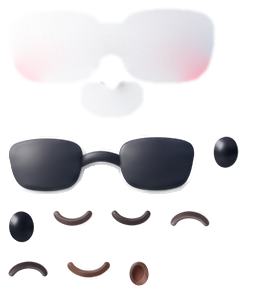
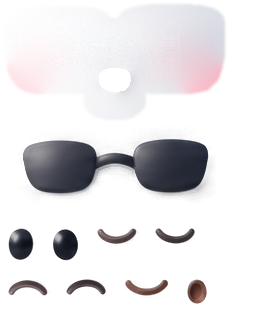
Fix Mongsil eye-side mark, expression swaps, and arm smearing
- Face atlas: erase the sunglasses' cast shadow too (12px, nose kept) and
  bake that shadow into the glasses sprite, so no outline is left when the
  glasses are raised. Sunny atlas relaid out; faceData.ts sunny coords updated.
- Expressions: eyes are no longer cross-faded. A kind change closes the old
  eye, swaps, then opens the new one over 0.24s; the engine draws one eye
  kind at full opacity (no grey half-transparent or overlapping eyes).
- Skinning: per-vertex weights baked at load from a strap/bag color mask
  (arms ~0 on strap/bag, bag moves only strap/bag, weights sum <= 1).
  Arm swing capped around 0.3rad. Umbrella path unchanged.
- Docs: DESIGN.md and ARCHITECTURE.md updated for the above.

diff --git a/src/components/ui/mongsil/motion.ts b/src/components/ui/mongsil/motion.ts
@@ -5,7 +5,8 @@
 //  - "calm"   : 원본 표정 그대로, 제자리에서 ±7° 안팎으로만 움직임(작은 움직임).
 //  - "lively" : 몸을 크게 쓰고(고개 갸웃·통통·팔 흔들기·뒤뚱뒤뚱 걷기) 표정이 계속 바뀐다.
 //               13초쯤 걸리는 한 바퀴를 "장면(beat)" 여러 개로 짠다. 장면마다 표정과 자세 목표가 있고,
-//               장면이 바뀔 때 표정은 fade초 동안 섞이고 자세는 move초 동안 부드럽게 넘어간다.
+//               장면이 바뀔 때 표정은 fade초 동안 섞이고(눈은 섞지 않고 0.24초 동안 감았다 뜨며 바뀐다)
+//               자세는 move초 동안 부드럽게 넘어간다.
 //               한 바퀴가 끝날 때마다 걷는 방향이 좌우로 번갈아 바뀐다.
 import type { MongsilWeather } from "./layout";
 import { REST_FACE, type EyeMix, type Face, type Pose } from "./engine";
@@ -39,11 +40,30 @@ const OPEN = E(1, 0, 0);
 const HAPPY = E(0, 0, 1);
 const face = (w: MongsilWeather, o: Partial<Face>): Face => ({ ...REST_FACE[w], ...o });
 
+const NO_EYE = E(0, 0, 0);
 const lerpEye = (a: EyeMix, b: EyeMix, k: number): EyeMix => ({ open: lerp(a.open, b.open, k), calm: lerp(a.calm, b.calm, k), happy: lerp(a.happy, b.happy, k) });
-function lerpFace(a: Face, b: Face, k: number): Face {
+type EyeKind = keyof EyeMix;
+function eyeKind(m: EyeMix): EyeKind | null {
+  const v = Math.max(m.open, m.calm, m.happy);
+  if (v < 0.01) return null;
+  return m.open === v ? "open" : m.calm === v ? "calm" : "happy";
+}
+// 눈 종류가 바뀌면 섞지 않는다: 앞 절반에 이전 눈이 감기고(작아지고), 가운데에서 바꾸고, 뒤 절반에 새 눈이 뜬다(자란다).
+// 반투명 눈·겹친 눈·오래 남는 검은 줄이 생기지 않는다. 같은 종류끼리는 그냥 섞는다.
+function eyeSwap(a: EyeMix, b: EyeMix, k: number): EyeMix {
+  const ka = eyeKind(a);
+  const kb = eyeKind(b);
+  if (ka === kb) return lerpEye(a, b, k);
+  if (k < 0.5) return ka ? { ...NO_EYE, [ka]: a[ka] * (1 - easeInOut(k / 0.5)) } : NO_EYE;
+  return kb ? { ...NO_EYE, [kb]: b[kb] * easeInOut((k - 0.5) / 0.5) } : NO_EYE;
+}
+const EYE_SWAP = 0.24; // 눈 바꾸는 시간(초): 감김 0.12 + 뜸 0.12 (깜빡임 한 번 길이)
+
+// 표정 섞기: 입·눈썹·선글라스·시선은 k로 부드럽게, 눈은 ek(0~1)에 맞춰 감았다 뜨며 바꾼다.
+function lerpFace(a: Face, b: Face, k: number, ek: number = k): Face {
   return {
-    eyeL: lerpEye(a.eyeL, b.eyeL, k),
-    eyeR: lerpEye(a.eyeR, b.eyeR, k),
+    eyeL: eyeSwap(a.eyeL, b.eyeL, ek),
+    eyeR: eyeSwap(a.eyeR, b.eyeR, ek),
     blinkL: lerp(a.blinkL, b.blinkL, k),
     blinkR: lerp(a.blinkR, b.blinkR, k),
     lookX: lerp(a.lookX, b.lookX, k),
@@ -106,6 +126,9 @@ function walk(arm = 0.3, sway = 1): (t: number) => Body {
     };
   };
 }
+// 팔 흔들기: 팔·끈·가방이 한 장 그림이라 크게 돌리면 끈이 꺾이고 손이 납작해진다. 올림 + 흔들림 최대 약 0.3rad.
+const ARM_UP = 0.22;
+const ARM_WAVE = 0.08;
 const TRAVEL = 68; // 걸어서 움직이는 거리(몸 그림 px). 캔버스 여백(가로 28%) 안에 들어온다.
 const FACE_YAW = 0.2; // 걷는 방향을 보는 각도
 
@@ -135,7 +158,7 @@ function sunnyScript(dir: number): Beat[] {
     { d: 1.8, face: grin, base: { headTilt: 0.2, yaw: -0.12 * dir, roll: 0.03, armL: 0.3 }, hops: [0.5] },
     { d: 0.45, face: lift, fade: 0.35, base: { headTilt: -0.05, pitch: -0.05 }, move: 0.45 },
     { d: 1.8, face: up, fade: 0.3, base: { headTilt: -0.1, yaw: 0.08 * dir, pitch: 0.02 }, gaze: sweep(1.8, 3.5, 1) },
-    { d: 1.6, face: wink, fade: 0.25, base: { headTilt: 0.22, yaw: -0.1 * dir, armL: 0.55 }, hops: [0.35], osc: (t) => ({ armL: 0.22 * Math.sin(TAU * 2.2 * t) }) },
+    { d: 1.6, face: wink, fade: 0.25, base: { headTilt: 0.22, yaw: -0.1 * dir, armL: ARM_UP }, hops: [0.35], osc: (t) => ({ armL: ARM_WAVE * Math.sin(TAU * 2.2 * t) }) },
     { d: 0.9, face: down, fade: 0.4, base: {}, move: 0.5 },
     ...walkBeats(stroll, dir, 0.3, 1),
     { d: 0.7, face: face(w, { smile: 1 }), fade: 0.5, base: {}, move: 0.6 },
@@ -154,7 +177,7 @@ function cloudyScript(dir: number): Beat[] {
   return [
     { d: 2.0, face: doze, fade: 0.5, base: { headTilt: -0.14, roll: -0.02, pitch: 0.04 }, move: 0.8, osc: (t) => ({ pitch: 0.015 * Math.sin((TAU * t) / 2.0) }) },
     { d: 2.0, face: open, fade: 0.45, base: { headTilt: 0.2, yaw: 0.1 * dir }, move: 0.7, gaze: sweep(2.0, 3.5, 0.8) },
-    { d: 1.9, face: joy, fade: 0.3, base: { headTilt: -0.18, roll: 0.03, armL: 0.5, armR: -0.5 }, hops: [0.5], osc: (t) => ({ armL: 0.2 * Math.sin(TAU * 2 * t), armR: -0.2 * Math.sin(TAU * 2 * t + 0.6) }) },
+    { d: 1.9, face: joy, fade: 0.3, base: { headTilt: -0.18, roll: 0.03, armL: ARM_UP, armR: -ARM_UP }, hops: [0.5], osc: (t) => ({ armL: ARM_WAVE * Math.sin(TAU * 2 * t), armR: -ARM_WAVE * Math.sin(TAU * 2 * t + 0.6) }) },
     { d: 1.5, face: wink, fade: 0.25, base: { headTilt: 0.22, yaw: -0.08 * dir }, hops: [0.4] },
     { d: 0.9, face: calm, fade: 0.4, base: {}, move: 0.5 },
     ...walkBeats(stroll, dir, 0.3, 1),
@@ -246,7 +269,7 @@ function lively(weather: MongsilWeather, t: number, tapAge: number | null): Pose
 
   // 표정
   const fk = easeInOut(clamp(tau / (beat.fade ?? 0.3), 0, 1));
-  let f = lerpFace(prev.face, beat.face, fk);
+  let f = lerpFace(prev.face, beat.face, fk, clamp(tau / EYE_SWAP, 0, 1));
   const gz = beat.gaze ? beat.gaze(tau) : [0, 0];
   const blink = blinkAt(t, 3.3, BLINK_PHASE[weather]);
   f = { ...f, lookX: f.lookX + gz[0] * env, lookY: f.lookY + gz[1] * env, blinkL: Math.max(f.blinkL, blink), blinkR: Math.max(f.blinkR, blink) };

diff --git a/src/components/ui/mongsil/faceData.ts b/src/components/ui/mongsil/faceData.ts
@@ -8,30 +8,30 @@ export const FACE: Record<"sunny" | "cloudy" | "rain", FaceData> = {
  "sunny": {
   "atlas": {
    "w": 256,
-   "h": 294
+   "h": 312
   },
   "patch": {
    "ax": 0,
    "ay": 0,
-   "x": 101,
-   "y": 106,
-   "w": 223,
-   "h": 126
+   "x": 98,
+   "y": 103,
+   "w": 229,
+   "h": 124
   },
   "sprites": {
    "glasses": {
     "ax": 0,
-    "ay": 128,
-    "w": 203,
-    "h": 72,
+    "ay": 126,
+    "w": 231,
+    "h": 92,
     "cx": 215.41,
     "cy": 151.33,
-    "ox": 104.41,
-    "oy": 35.33
+    "ox": 118.41,
+    "oy": 39.33
    },
    "eyeL": {
-    "ax": 205,
-    "ay": 128,
+    "ax": 0,
+    "ay": 220,
     "w": 42,
     "h": 49,
     "cx": 158.02,
@@ -40,8 +40,8 @@ export const FACE: Record<"sunny" | "cloudy" | "rain", FaceData> = {
     "oy": 24.08
    },
    "eyeR": {
-    "ax": 0,
-    "ay": 202,
+    "ax": 44,
+    "ay": 220,
     "w": 43,
     "h": 49,
     "cx": 266.62,
@@ -50,8 +50,8 @@ export const FACE: Record<"sunny" | "cloudy" | "rain", FaceData> = {
     "oy": 24.59
    },
    "arcL": {
-    "ax": 45,
-    "ay": 202,
+    "ax": 89,
+    "ay": 220,
     "w": 56,
     "h": 33,
     "cx": 158.22,
@@ -60,8 +60,8 @@ export const FACE: Record<"sunny" | "cloudy" | "rain", FaceData> = {
     "oy": 16.69
    },
    "arcR": {
-    "ax": 103,
-    "ay": 202,
+    "ax": 147,
+    "ay": 220,
     "w": 57,
     "h": 32,
     "cx": 265.62,
@@ -70,8 +70,8 @@ export const FACE: Record<"sunny" | "cloudy" | "rain", FaceData> = {
     "oy": 16.3
    },
    "arcUpL": {
-    "ax": 162,
-    "ay": 202,
+    "ax": 0,
+    "ay": 271,
     "w": 56,
     "h": 33,
     "cx": 158.22,
@@ -80,8 +80,8 @@ export const FACE: Record<"sunny" | "cloudy" | "rain", FaceData> = {
     "oy": 16.31
    },
    "arcUpR": {
-    "ax": 0,
-    "ay": 253,
+    "ax": 58,
+    "ay": 271,
     "w": 57,
     "h": 32,
     "cx": 265.62,
@@ -90,8 +90,8 @@ export const FACE: Record<"sunny" | "cloudy" | "rain", FaceData> = {
     "oy": 15.7
    },
    "smile": {
-    "ax": 59,
-    "ay": 253,
+    "ax": 117,
+    "ay": 271,
     "w": 60,
     "h": 33,
     "cx": 212.32,
@@ -100,8 +100,8 @@ export const FACE: Record<"sunny" | "cloudy" | "rain", FaceData> = {
     "oy": 17.12
    },
    "mouthO": {
-    "ax": 121,
-    "ay": 253,
+    "ax": 179,
+    "ay": 271,
     "w": 36,
     "h": 41,
     "cx": 211.82,

diff --git a/docs/DESIGN.md b/docs/DESIGN.md
@@ -78,19 +78,19 @@
     - `mongsil-sunny|cloudy|rain.png`: 전신(소나기는 우산 포함). 세 모습이 590×672 공통 캔버스에서 몸 위치·크기가 같아 날씨가 바뀌어도 몸이 흔들리지 않는다.
     - `prop-sun.png`, `prop-cloud.png`, `prop-drop.png`: 따로 움직이는 소품(해·구름·빗방울).
     - `mongsil-sunny|cloudy|rain-depth.png`: 2.5D 움직임용 깊이맵(8비트 흑백, 절반 해상도, 값 = 높이(px)×2). 실루엣 거리로 둥글게 부풀리고 얼굴·팔·가방·발을 볼록하게 더했다. 경계 밖으로도 값을 늘려 둬서 가장자리가 찢어지지 않는다. 소나기는 우산을 뺀 몸의 깊이다.
-    - `mongsil-sunny|cloudy|rain-parts.png`: 얼굴 부품 아틀라스. 눈·입·눈썹·선글라스를 떼어 낸 빈 얼굴(patch, 가장자리가 부드럽게 사라짐)과 부품(뜬 눈, 감은 눈 ‿, 웃는 눈 ⌒, 굽힐 수 있는 입, 놀란 입 O, 눈썹, 선글라스)이 들어 있고, 기본 표정으로 합치면 원본 렌더와 같다. 좌표는 `mongsil/faceData.ts`(에셋 스크립트가 만든 파일)에 있다.
+    - `mongsil-sunny|cloudy|rain-parts.png`: 얼굴 부품 아틀라스. 빈 얼굴(patch)과 부품(뜬 눈, 감은 눈 ‿, 웃는 눈 ⌒, 굽힐 수 있는 입, 놀란 입 O, 눈썹, 선글라스)이 들어 있고, 기본 표정으로 합치면 원본 렌더와 같다. 빈 얼굴은 원본 픽셀 그대로에서 원래 그려진 부품 자리(4px 넓힘, 선글라스는 얼굴에 드리운 그림자까지 12px, 코는 제외)만 주변 피부로 채우고 그 자리만 알파로 남긴 조각이라 볼터치가 잘리지 않는다. 부품 가장자리는 피부색과 분리해서 알파로 바꿔 흰·분홍 테두리가 없고, 선글라스에는 원본 그림자가 반투명 층으로 들어 있어 이마로 올리면 그림자도 함께 올라간다. 좌표는 `mongsil/faceData.ts`(에셋 스크립트가 만든 파일)에 있다.
     - `mongsil-rain-body.png`, `mongsil-rain-umbrella.png`: 소나기만. 우산을 몸에서 오려 낸 것이다. body = 우산을 지우고 가려졌던 곳(머리 오른쪽·귀·막대 자리)을 채운 몸, umbrella = 한 시트에 위(뒤 우산 = 윗면·안쪽)와 아래(앞 막대 = 손잡이·막대)를 담았다. 뒤 우산 → 몸 → 앞 막대 순으로 합치면 원본 렌더와 같아서(픽셀 오차 평균 0.01) 정지 그림 `mongsil-rain.png`(우산 포함)은 그대로 대체 화면으로 쓴다. 우산이 몸과 따로 움직이려면 이 분리가 필요하다(한 장이면 고개를 갸웃할 때 우산이 찢어진다).
     - `face-sunny|cloudy|rain.png`: 원형 아바타용 얼굴 크롭(256×256). 기본은 흐림(차분한 미소).
   - 전신은 `components/ui/Mongsil.tsx`(홈 히어로·아바타 꾸미기 미리보기·온보딩. 몸통은 `MongsilBody.tsx`), 원형은 `components/ui/Avatar.tsx`(헤더·코치 카드·빈 상태·기록·마이페이지)가 쓴다. 원형 아바타의 크기와 배지 좌표는 UI-SPEC.md 그대로이고, 얼굴 뒤 바탕만 하늘색 그라데이션(#D7E6FA→#EDF3FD)이다(빈 자리였을 때의 #F0EFED는 이미지 로딩 전 바탕으로만 남는다).
-  - 모션 — 몽실이 자체(2.5D): 렌더 한 장을 격자 메시로 깔고 깊이맵으로 볼록하게 만든 뒤 움직인다. 전체(요·피치·롤·젤리 기울기·발 기준 스쿼시&스트레치·뜀·좌우 이동) + 부위별(머리 갸웃, 양팔, 가방, 두 발 들기, 소나기는 우산이 손을 중심으로 회전)이고, 얼굴은 부품을 갈아 끼운다(눈 뜸/감음/웃는 눈, 입 굽힘·O, 눈썹, 선글라스 올리기). 원근 없는 정사영이라 기본 자세는 원본 이미지와 똑같다. 진짜 3D 모델이 아니라 그림에 입체감을 입힌 것이라 몸통 돌림은 ±12° 안쪽으로만 쓴다. 코드는 `components/ui/mongsil/`(`layout.ts` 좌표, `motion.ts` 날씨별 안무, `engine.ts` WebGL, `faceData.ts` 부품 좌표)와 `MongsilBody.tsx`(React 연결).
+  - 모션 — 몽실이 자체(2.5D): 렌더 한 장을 격자 메시로 깔고 깊이맵으로 볼록하게 만든 뒤 움직인다. 전체(요·피치·롤·젤리 기울기·발 기준 스쿼시&스트레치·뜀·좌우 이동) + 부위별(머리 갸웃, 양팔, 가방, 두 발 들기, 소나기는 우산이 손을 중심으로 회전)이고, 부위 가중치는 로드할 때 정점마다 굽는다(가우시안 영역 × 몸 그림 색으로 만든 끈·가방 마스크: 팔은 끈·가방 위에서 0에 가깝고 가방은 끈·가방만 움직이며, 합은 1을 넘지 않는다). 팔·끈·가방이 한 장 그림이라 팔은 최대 약 0.3rad만 돌리고, 손이 몸에서 떨어지지는 않는다. 얼굴은 부품을 갈아 끼운다(눈 뜸/감음/웃는 눈, 입 굽힘·O, 눈썹, 선글라스 올리기). 원근 없는 정사영이라 기본 자세는 원본 이미지와 똑같다. 진짜 3D 모델이 아니라 그림에 입체감을 입힌 것이라 몸통 돌림은 ±12° 안쪽으로만 쓴다. 코드는 `components/ui/mongsil/`(`layout.ts` 좌표, `motion.ts` 날씨별 안무, `engine.ts` WebGL, `faceData.ts` 부품 좌표)와 `MongsilBody.tsx`(React 연결).
     - 두 가지 모드(`<Mongsil motion="lively|calm">`, 기본 lively. 미리보기 `?motion=calm`):
       - `calm` 차분: 원본 표정 그대로 제자리에서 ±7° 안팎으로만 움직인다. 맑음은 3.4초 주기로 통통 + 고개 좌우, 5초마다 선글라스 반짝. 흐림은 숨 쉬듯 느리게 흔들리며 끄덕임. 소나기는 6초 주기 깜짝(눈썹·뜀) → 두리번 → 떨림, 3.3초마다 깜빡임.
-      - `lively` 활발: 몸을 크게 쓰고 표정이 계속 바뀐다. 한 바퀴(11~13초)를 장면 여러 개로 짜고, 장면마다 표정·자세 목표가 있어서 장면이 바뀔 때 표정은 0.25~0.5초 섞이고 자세는 0.5초쯤 부드럽게 넘어간다. 한 바퀴가 끝날 때마다 걷는 방향이 좌우로 번갈아 바뀐다.
+      - `lively` 활발: 몸을 크게 쓰고 표정이 계속 바뀐다. 한 바퀴(11~13초)를 장면 여러 개로 짜고, 장면마다 표정·자세 목표가 있어서 장면이 바뀔 때 입·눈썹·선글라스는 0.25~0.5초 섞이고(눈은 아래 규칙) 자세는 0.5초쯤 부드럽게 넘어간다. 한 바퀴가 끝날 때마다 걷는 방향이 좌우로 번갈아 바뀐다.
         - 맑음(13초): 선글라스 쓴 무표정(반짝) → 씨익 웃음 → 선글라스를 이마로 올리고 눈 뜸(두리번) → 윙크(+팔 흔들기) → 선글라스 내리고 뒤뚱뒤뚱 걷기.
         - 흐림(13초): 눈 감고 꾸벅 → 눈 뜬 무표정(두리번) → 웃는 눈 ⌒⌒ + 양팔 흔들기 → 윙크 → 웃는 눈으로 콧노래하며 걷기.
         - 소나기(11초): 깜짝(눈썹 올라감·뜀·우산 떨림) → 무표정 → 안심 미소 → 윙크 → 우산을 들고 걷기(우산이 걸음에 맞춰 살짝 흔들림).
         - 걷기: 0.72초 걸음 주기로 발을 번갈아 들고(15px), 몸이 서 있는 발 쪽으로 기울고(롤 ±3.5°), 팔·가방이 반대로 출렁이며, 가는 방향으로 몸을 돌려(요 ±11°, 좌우 뒤집기가 아니라 회전) 옆으로 68px(몸 그림 기준) 갔다 돌아온다. 고개 갸웃은 ±13°.
-        - 표정 바뀜은 크로스페이드다. 뜬 눈은 선처럼 납작한 데서 자라며 나타나고, 감은 눈끼리(‿↔⌒)는 납작해지며 바뀐다. 깜빡임은 뜬 눈에만 3.3초마다.
+        - 눈은 섞지 않는다: 종류가 바뀌면 0.24초 동안 이전 눈이 감기고(뜬 눈은 납작해지고 ‿·⌒는 세로로 줄어듦) → 바뀌고 → 새 눈이 뜬다(탭 윙크도 같다). 눈은 한 번에 한 종류만, 투명도 없이 그려서 반투명 눈·겹친 눈이 생기지 않는다. 깜빡임은 뜬 눈에만 3.3초마다.
     - 탭하면 반응한다(장식 반응이라 버튼이 아니다). lively는 눈 찡긋(맑음은 선글라스도 올라감) + 한 번 통 + 갸웃(0.9초), calm은 한 번 통(0.7초). 몽실이 영역(590×672) 어디를 눌러도 되고, 캔버스 자체는 눌림을 통과시켜서 뒤의 버튼을 가리지 않는다.
     - 발 밑 그림자는 뜀에 맞춰 작아지고 옅어지며 걸을 때 몸을 따라간다. 소품(해·구름·빗방울)도 몸이 걸으면 함께 옆으로 따라간다.
     - 소품 자체 움직임은 그대로 CSS다: 해는 둥실, 구름은 좌우로, 빗방울은 떨어지며 사라진다(tailwind `mongsil-*`).
